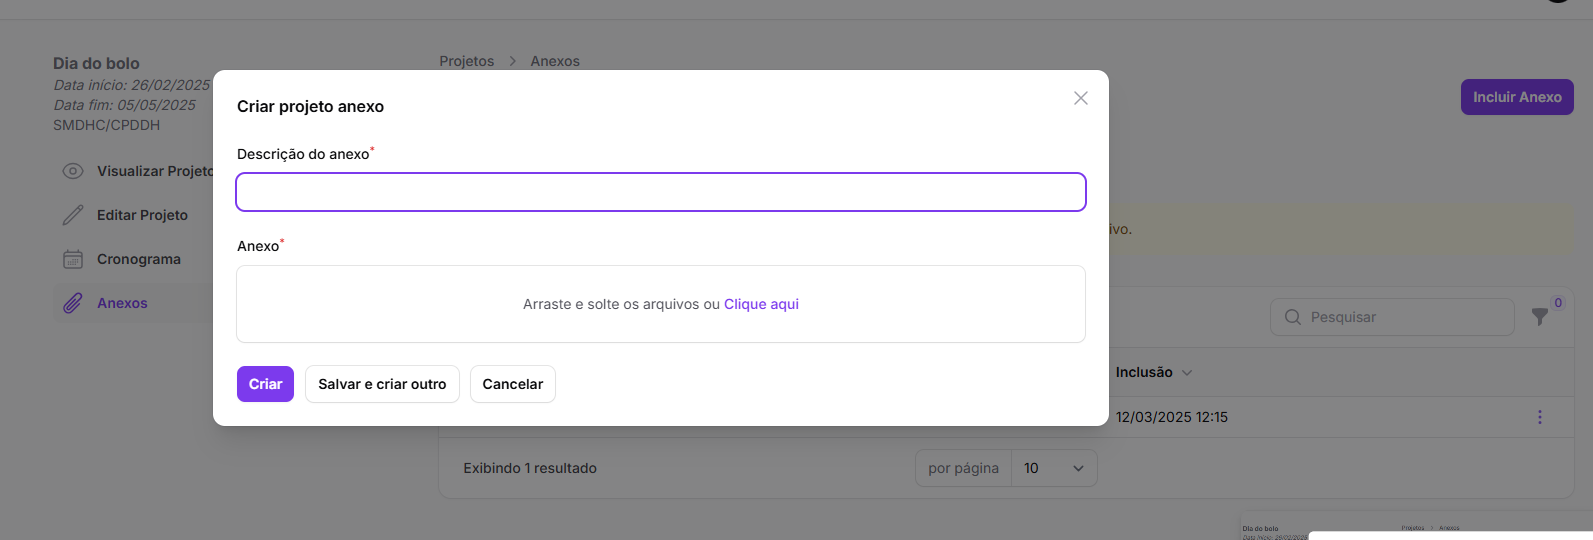
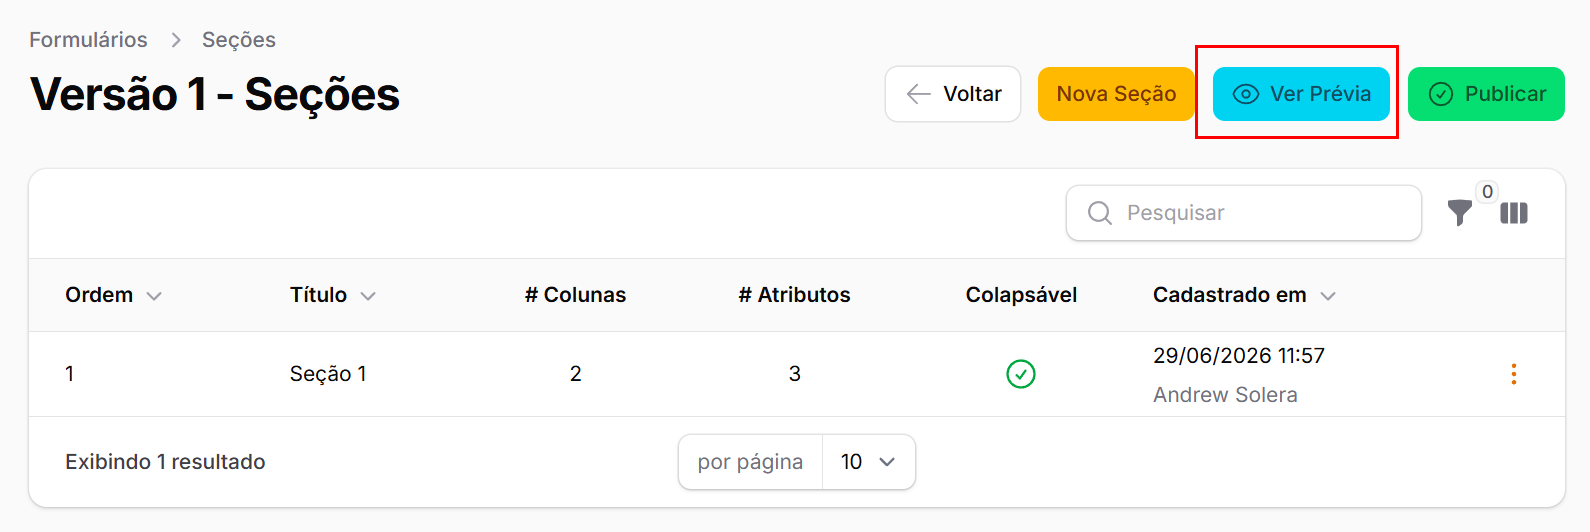
GITBOOK-473: No subject

diff --git a/forms/construcao-de-formularios/pre-visualizar-formulario.md b/forms/construcao-de-formularios/pre-visualizar-formulario.md
@@ -1,0 +1,20 @@
+# Pré-visualizar formulário
+
+A partir do exemplo anterior, criamos mais alguns atributos conforme abaixo, que coletam o nome da pessoa, data de nascimento e raça/cor.
+
+<figure><img src="../../.gitbook/assets/image (148).png" alt=""><figcaption></figcaption></figure>
+
+Para visualizar como o formulário está ficando, clique no botão "Voltar" (caso esteja na listagem de atributos) para voltar para a listagem de seções, e clique no botão "Ver Prévia".
+
+<figure><img src="../../.gitbook/assets/image (149).png" alt=""><figcaption></figcaption></figure>
+
+Será aberta uma janela que simula a visualização do formulário com os atributos configurados até o momento.
+
+<figure><img src="../../.gitbook/assets/image (151).png" alt=""><figcaption></figcaption></figure>
+
+Nessa pré-visualização é possível interagir com os atributos, testar seus comportamentos e ver suas opções, com a limitação de não poder submeter o formulário.
+
+{% hint style="info" %}
+Algumas validações ocorrem somente após submissão do formulário. Dessa forma, também não é possível testá-las nesse modo.
+{% endhint %}
+

diff --git a/forms/construcao-de-formularios/configurar-atributos.md b/forms/construcao-de-formularios/configurar-atributos.md
@@ -122,3 +122,5 @@ No nosso exemplo, vou definir o campo "Nome da pessoa" com ordem = 1, para ser o
 Clique em "Criar" para finalizar a configuração. A listagem de atributos será atualizada com o atributo novo.
 
 <figure><img src="../../.gitbook/assets/image (118).png" alt=""><figcaption></figcaption></figure>
+
+Repita esse processo para cada pergunta do formulário que deseja criar.

diff --git a/SUMMARY.md b/SUMMARY.md
@@ -122,6 +122,7 @@
   * [Criar uma seção](forms/construcao-de-formularios/criar-uma-secao.md)
   * [Configurar atributos](forms/construcao-de-formularios/configurar-atributos.md)
   * [Editar atributos](forms/construcao-de-formularios/editar-atributos.md)
+  * [Pré-visualizar formulário](forms/construcao-de-formularios/pre-visualizar-formulario.md)
 
 ## Histórico de Versões
 